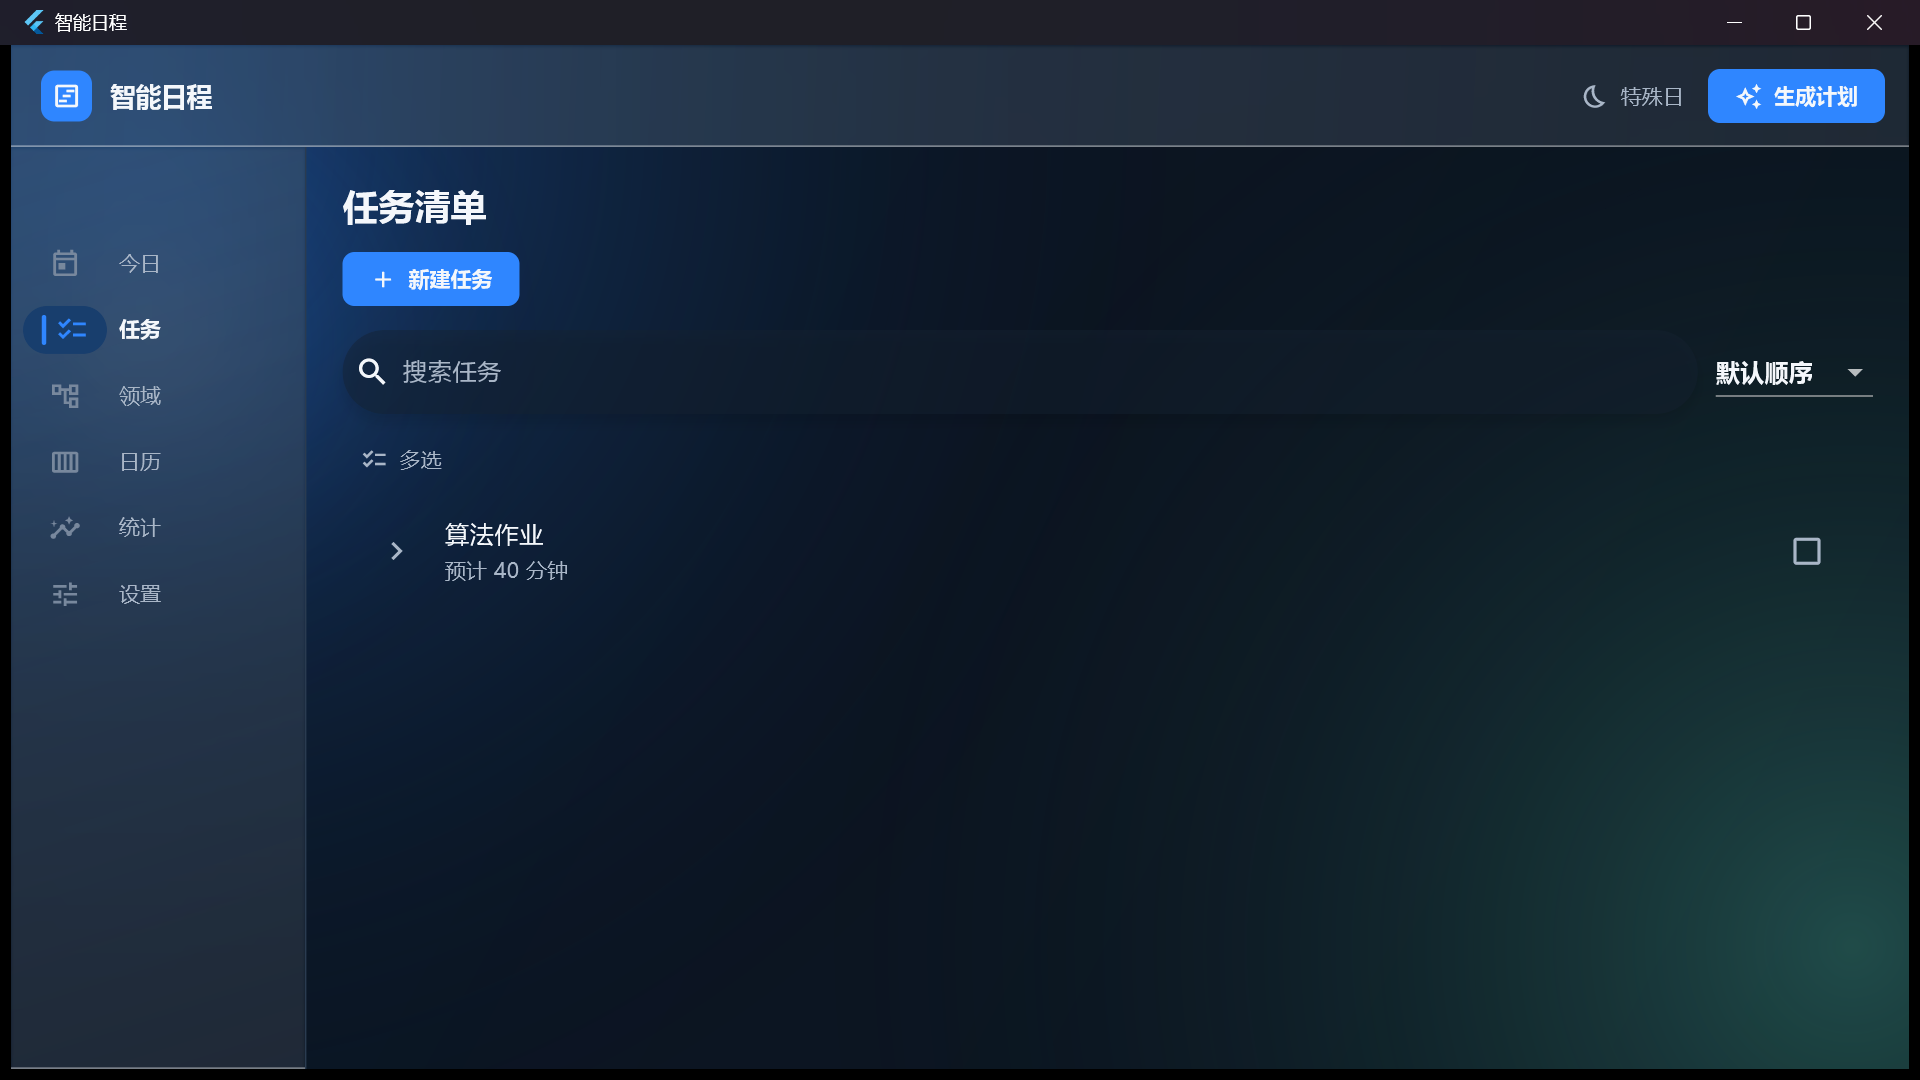
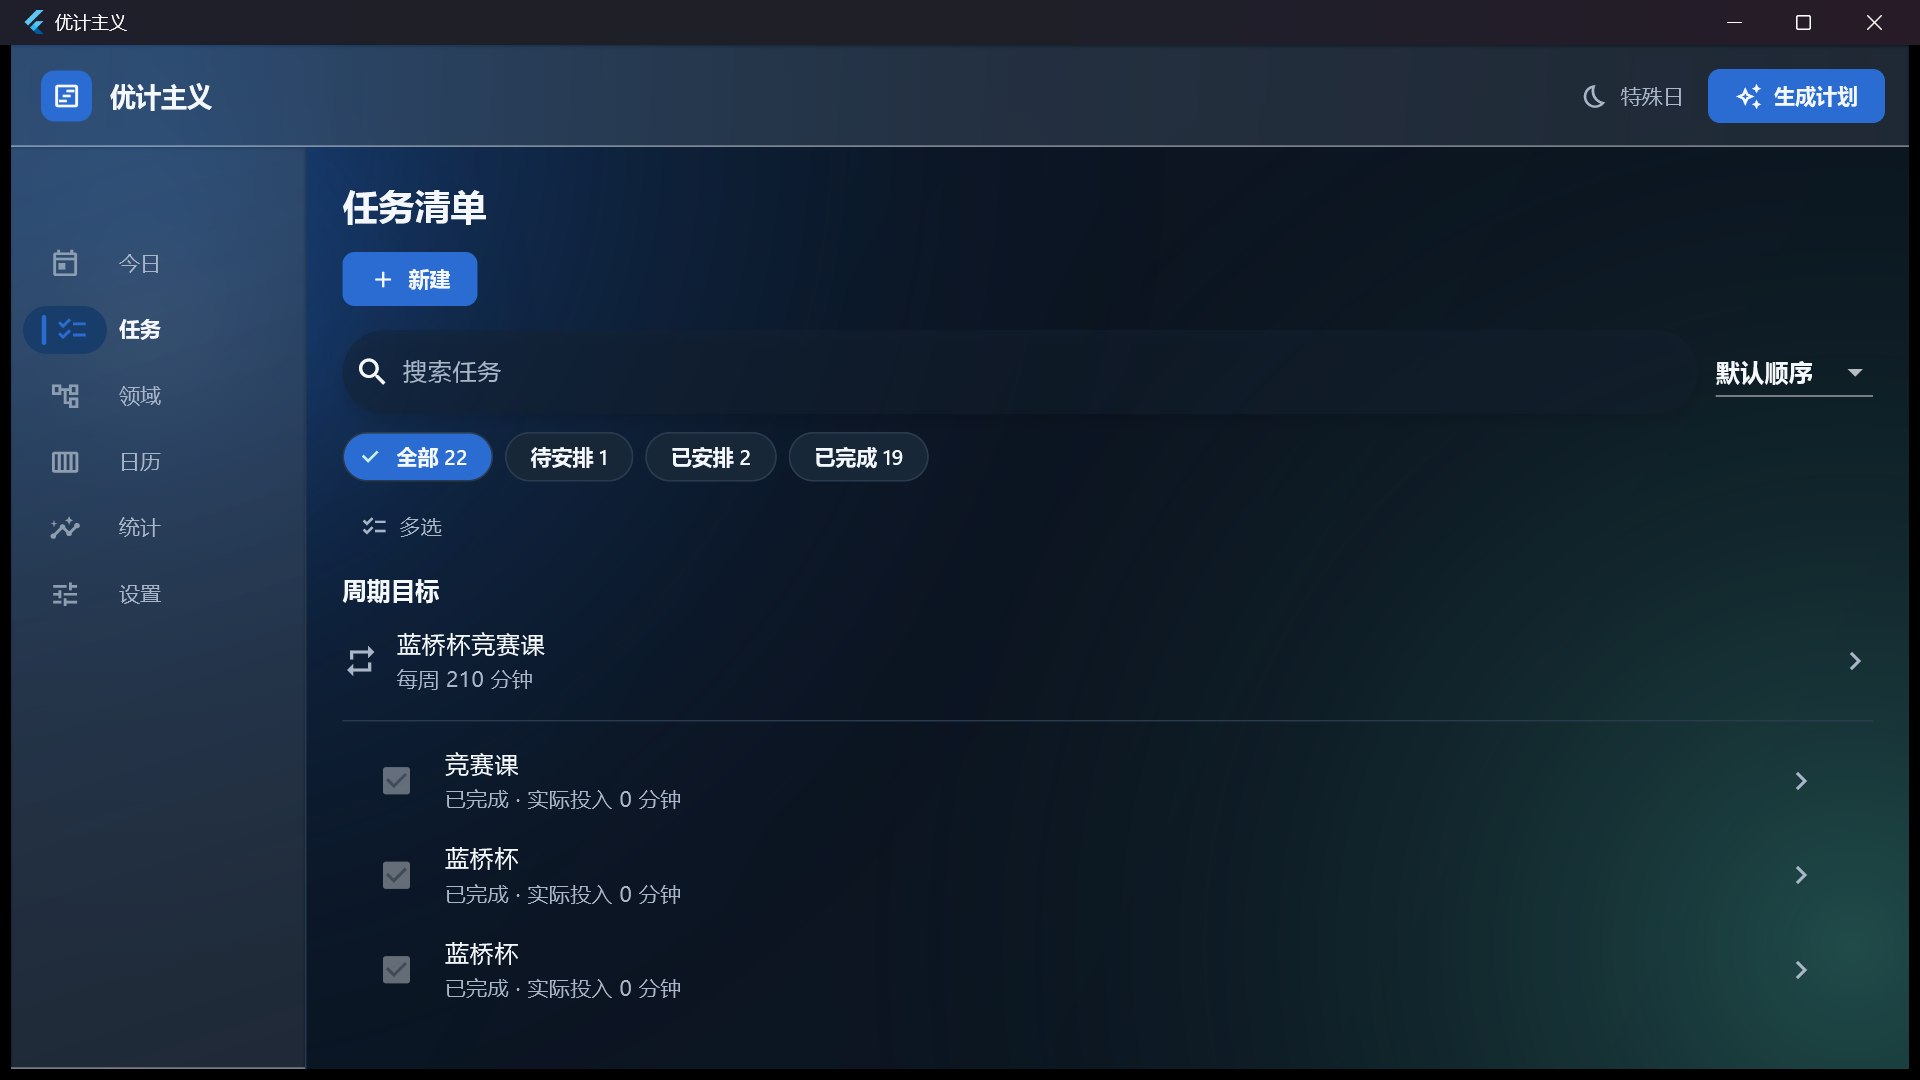
feat: rebrand the product as 优计主义
The window title, tray tooltip, notification app name, backup file dialog,
tutorial heading and the Windows runner resources now all read from
lib/app/app_brand.dart, so the display name has exactly one source.

Deliberately unchanged: the MSIX package identity
(ShuoZhuang.PersonalPlanner), the AUMID, the executable name, the database
and every version field. Existing installs upgrade in place and keep their
data.

Also retakes the six tutorial screenshots on the new brand and renames
docs/智能日程使用教程.md to docs/优计主义使用教程.md.

diff --git a/lib/app/planner_app.dart b/lib/app/planner_app.dart
@@ -2,6 +2,8 @@ import 'dart:async';
 
 import 'package:flutter/material.dart';
 import 'package:go_router/go_router.dart';
+import 'package:personal_planner/app/app_brand.dart';
+import 'package:personal_planner/app/router.dart';
 import 'package:personal_planner/application/appearance_service.dart';
 import 'package:personal_planner/application/academic_calendar_service.dart';
 import 'package:personal_planner/application/analytics_chart_preference_service.dart';
@@ -30,7 +32,6 @@ import 'package:personal_planner/application/settings_service.dart';
 import 'package:personal_planner/application/tag_service.dart';
 import 'package:personal_planner/application/window_behavior_service.dart';
 import 'package:personal_planner/application/workspace_service.dart';
-import 'package:personal_planner/app/router.dart';
 import 'package:personal_planner/core/clock.dart';
 import 'package:personal_planner/core/ids.dart';
 import 'package:personal_planner/core/time_zone.dart';
@@ -782,7 +783,7 @@ final class _PlannerAppState extends State<PlannerApp> {
               );
             }
             return MaterialApp.router(
-              title: '智能日程',
+              title: AppBrand.displayName,
               debugShowCheckedModeBanner: false,
               // **Material 自带控件要说中文**：不配这三行，日期／时间选择器与对话框按钮会回落到
               // Flutter 内置的英文文案——确认按钮显示成 `Save`、月份显示 `October 2026`。那正是
@@ -819,7 +820,7 @@ final class _PlannerAppState extends State<PlannerApp> {
 
   /// 非路由状态的统一外壳：引导、解锁与加载都共用同一套标题与主题。
   Widget _shell(Widget home) => MaterialApp(
-    title: '智能日程',
+    title: AppBrand.displayName,
     debugShowCheckedModeBanner: false,
     // 与路由形态共用同一份本地化设置：引导、解锁与加载页同样会弹选择器。
     locale: PlannerLocalization.locale,

diff --git a/test/app/app_smoke_test.dart b/test/app/app_smoke_test.dart
@@ -8,6 +8,31 @@ import 'package:personal_planner/features/tutorial/tutorial_page.dart';
 import 'package:personal_planner/features/onboarding/onboarding_page.dart';
 
 void main() {
+  testWidgets('主窗口与应用元数据显示优计主义品牌名', (tester) async {
+    final settings = MemorySettingsRepository();
+    await settings.write(
+      OnboardingPage.schemaVersionKey,
+      OnboardingPage.currentSchemaVersion.toString(),
+    );
+    await settings.write(
+      TutorialPage.seenKey,
+      TutorialPage.currentVersion.toString(),
+    );
+
+    await tester.pumpWidget(
+      ProviderScope(
+        child: PlannerApp(
+          timeZoneId: 'Asia/Shanghai',
+          settingsRepository: settings,
+        ),
+      ),
+    );
+    await tester.pumpAndSettle();
+
+    expect(find.text('优计主义'), findsOneWidget);
+    expect(tester.widget<MaterialApp>(find.byType(MaterialApp)).title, '优计主义');
+  });
+
   testWidgets('首次启动先显示默认设置引导', (tester) async {
     await tester.pumpWidget(
       const ProviderScope(child: PlannerApp(timeZoneId: 'Asia/Shanghai')),

diff --git a/lib/platform/files/file_selector_adapter.dart b/lib/platform/files/file_selector_adapter.dart
@@ -1,6 +1,7 @@
 import 'dart:io';
 
 import 'package:file_selector/file_selector.dart';
+import 'package:personal_planner/app/app_brand.dart';
 import 'package:personal_planner/application/export_service.dart';
 
 final class FileSelectorAdapter implements ExportFilePort {
@@ -37,7 +38,7 @@ final class FileSelectorAdapter implements ExportFilePort {
       initialDirectory: initialDirectory,
       suggestedName: 'planner-backup.zip',
       acceptedTypeGroups: const [
-        XTypeGroup(label: '智能日程备份', extensions: ['zip']),
+        XTypeGroup(label: AppBrand.backupTypeLabel, extensions: ['zip']),
       ],
     );
     return location?.path;
@@ -46,7 +47,7 @@ final class FileSelectorAdapter implements ExportFilePort {
   Future<String?> chooseBackupSource() async {
     final file = await openFile(
       acceptedTypeGroups: const [
-        XTypeGroup(label: '智能日程备份', extensions: ['zip']),
+        XTypeGroup(label: AppBrand.backupTypeLabel, extensions: ['zip']),
       ],
     );
     return file?.path;

diff --git a/lib/app/router.dart b/lib/app/router.dart
@@ -2,6 +2,7 @@ import 'package:flutter/material.dart';
 import 'package:flutter/services.dart';
 import 'package:go_router/go_router.dart';
 import 'package:personal_planner/app/backup_assembly.dart';
+import 'package:personal_planner/app/app_brand.dart';
 import 'package:personal_planner/app/planner_rail_index.dart';
 import 'package:personal_planner/application/appearance_service.dart';
 import 'package:personal_planner/application/academic_calendar_service.dart';
@@ -2350,7 +2351,7 @@ final class _PlannerShell extends StatelessWidget {
             _BrandMark(),
             SizedBox(width: 12),
             Text(
-              '智能日程',
+              AppBrand.displayName,
               style: TextStyle(fontSize: 17, fontWeight: FontWeight.w700),
             ),
           ],

diff --git a/lib/features/tutorial/tutorial_steps.dart b/lib/features/tutorial/tutorial_steps.dart
@@ -1,4 +1,5 @@
 import 'package:flutter/foundation.dart';
+import 'package:personal_planner/app/app_brand.dart';
 
 /// 新手教程的一步：一张**真实界面截图** + 标题 + 说明 +（可选）要点。
 ///
@@ -32,7 +33,7 @@ final class TutorialStep {
 /// 步骤数变化不需要动别处——页面用的是 `tutorialSteps.length`。
 const List<TutorialStep> tutorialSteps = [
   TutorialStep(
-    title: '欢迎使用智能日程',
+    title: AppBrand.welcomeTitle,
     body:
         '这个应用只做一件事：把你想做的事排进你能用的时间里。'
         '下面用六张真实界面截图带你走一遍，大约两分钟。',

diff --git a/lib/platform/notifications/windows_notification_adapter.dart b/lib/platform/notifications/windows_notification_adapter.dart
@@ -1,6 +1,7 @@
 import 'dart:async';
 
 import 'package:flutter_local_notifications/flutter_local_notifications.dart';
+import 'package:personal_planner/app/app_brand.dart';
 import 'package:personal_planner/domain/repositories/notification_port.dart';
 import 'package:timezone/timezone.dart' as tz;
 
@@ -118,7 +119,7 @@ final class FlutterWindowsNotificationBackend
 
   WindowsInitializationSettings get _initialization =>
       WindowsInitializationSettings(
-        appName: '智能日程',
+        appName: AppBrand.displayName,
         appUserModelId: effectiveAppUserModelId,
         guid: activatorGuid,
       );

diff --git a/lib/app/app_brand.dart b/lib/app/app_brand.dart
@@ -1,0 +1,5 @@
+abstract final class AppBrand {
+  static const displayName = '优计主义';
+  static const welcomeTitle = '欢迎使用$displayName';
+  static const backupTypeLabel = '$displayName备份';
+}

diff --git a/windows/runner/flutter_window.cpp b/windows/runner/flutter_window.cpp
@@ -81,7 +81,7 @@ bool FlutterWindow::EnsureTrayIcon() {
   // The tooltip repeats the window title; \u escapes keep this file pure ASCII (see the
   // note in tray_icon.cpp about code page 936 and warning C4819).
   auto tray = std::make_unique<TrayIcon>(handle, icon,
-                                         L"\u667A\u80FD\u65E5\u7A0B",
+                                         L"\u4F18\u8BA1\u4E3B\u4E49",
                                          [this]() { QuitFromTray(); });
   if (!tray->Add()) {
     // Report the shell's own error: it is the only clue to why there is no icon, and the

diff --git a/windows/runner/main.cpp b/windows/runner/main.cpp
@@ -27,7 +27,7 @@ int APIENTRY wWinMain(_In_ HINSTANCE instance, _In_opt_ HINSTANCE prev,
   FlutterWindow window(project);
   Win32Window::Point origin(10, 10);
   Win32Window::Size size(1280, 720);
-  if (!window.Create(L"\u667A\u80FD\u65E5\u7A0B", origin, size)) {
+  if (!window.Create(L"\u4F18\u8BA1\u4E3B\u4E49", origin, size)) {
     return EXIT_FAILURE;
   }
   window.SetQuitOnClose(true);

diff --git a/docs/优计主义使用教程.md b/docs/优计主义使用教程.md
@@ -1,4 +1,4 @@
-# 智能日程使用教程
+# 优计主义使用教程
 
 > 适用版本：Windows 深色专注版 1.0.8  
 > 更新日期：2026-10-06  
@@ -8,7 +8,7 @@
 
 ## 1. 软件能帮你做什么
 
-智能日程会综合以下信息，滚动规划未来 7 天，同时检查更远的截止日期：
+优计主义会综合以下信息，滚动规划未来 7 天，同时检查更远的截止日期：
 
 - 待办任务及预计时长；
 - 课程、会议、聚餐等固定日程；
@@ -37,7 +37,7 @@
 1. 是否已完整解压；
 2. EXE 是否仍和 `data`、DLL 文件放在同一目录；
 3. Windows Defender 或其他安全软件是否拦截；
-4. 是否已有一个智能日程窗口正在后台运行。
+4. 是否已有一个优计主义窗口正在后台运行。
 
 > 免安装 EXE 为避免 Windows 原生通知组件导致启动崩溃，会安全关闭系统通知。需要完整 Windows 通知能力时，应使用 MSIX 安装版。
 

diff --git a/README.md b/README.md
@@ -1,6 +1,6 @@
-# Best Planning / 智能日程
+# Best-Planning / 优计主义
 
-### A local-first intelligent schedule planner for Windows / 面向大学生的本地优先智能日程软件
+### A local-first intelligent schedule planner for Windows / 面向大学生的本地优先日程规划软件
 
 [![Release](https://img.shields.io/github/v/release/ShuoZhuang/Best-Planning?include_prereleases&logo=github&label=Release)](https://github.com/ShuoZhuang/Best-Planning/releases)
 [![Downloads](https://img.shields.io/github/downloads/ShuoZhuang/Best-Planning/total?logo=github&label=Downloads)](https://github.com/ShuoZhuang/Best-Planning/releases)

diff --git a/tool/README-accessibility-probe.md b/tool/README-accessibility-probe.md
@@ -48,8 +48,8 @@ python tool/probe_window_tree.py personal_planner.exe
 `tool/probe_window_tree.py` 把窗口层级也问了一遍（2026-10-07 实测）：
 
 ```text
-顶层 hwnd=3542668 class='FLUTTER_RUNNER_WIN32_WINDOW' text='智能日程'
-  MSAA: name='智能日程' role=10 children=1 kids=["[simple name='' role=]"]
+顶层 hwnd=3542668 class='FLUTTER_RUNNER_WIN32_WINDOW' text='优计主义'
+  MSAA: name='优计主义' role=10 children=1 kids=["[simple name='' role=]"]
   子窗口 hwnd=3543190 class='FLUTTERVIEW' text='FLUTTERVIEW' pid=41640
     MSAA: name='FLUTTERVIEW' role=10 children=0 kids=[]
 ```
